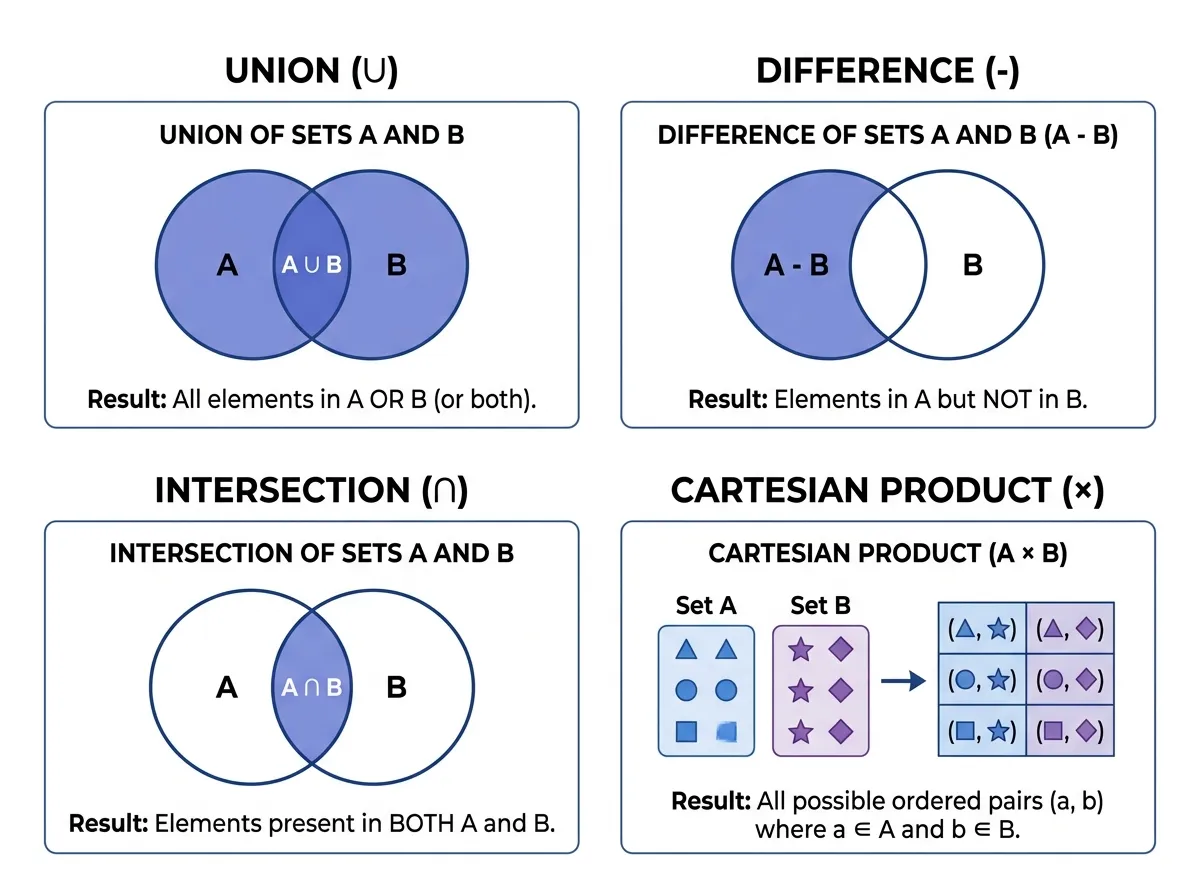
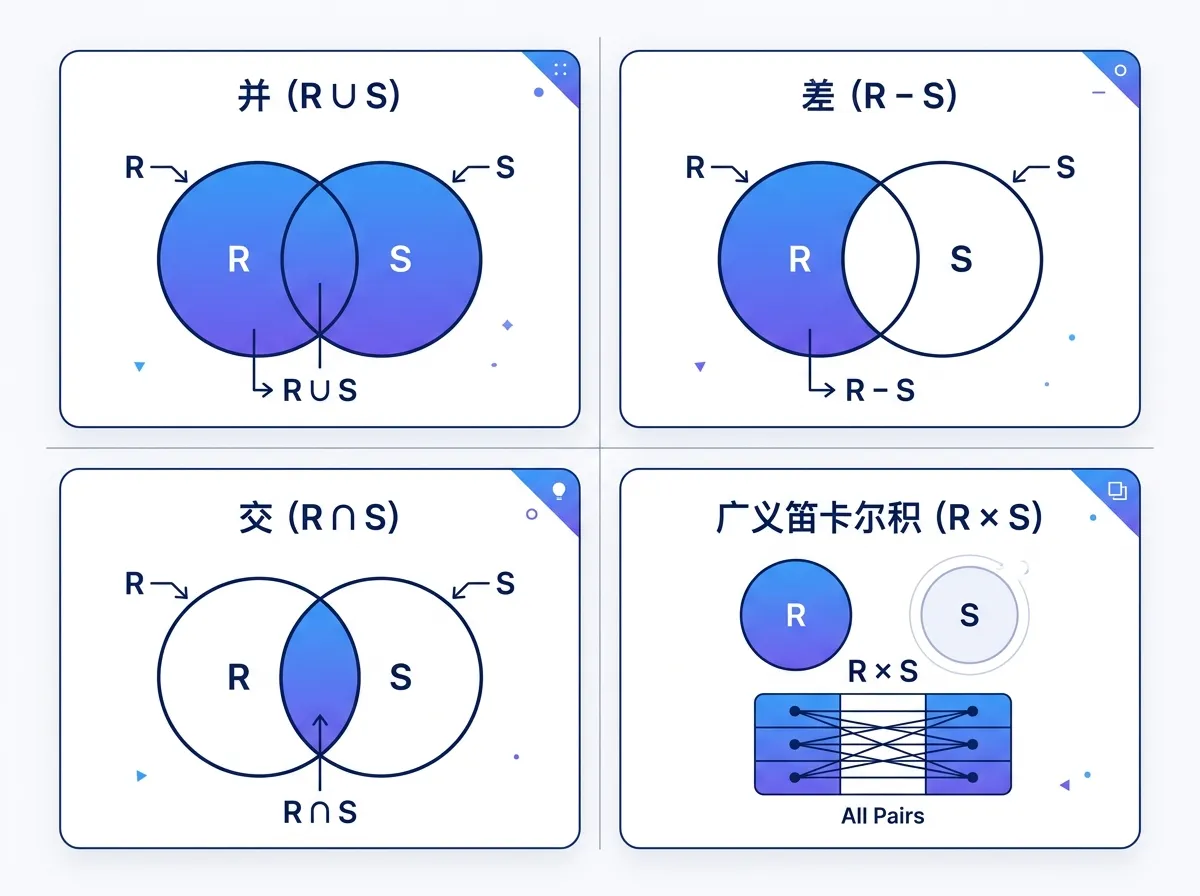
chore(posts): adjust content

Changed region(s): [[0.0308, 0.0312, 0.9558, 0.9688], [0.8325, 0.25, 0.8942, 0.375]]

diff --git a/posts/study/economics-management/DP-A/7/index.md b/posts/study/economics-management/DP-A/7/index.md
@@ -133,48 +133,4 @@ BEGIN
   CLOSE cur_prod;
 END $$
 DELIMITER ;
-```\n
-
-## 7.5 教材纠错：存储过程与触发器中的逻辑与语法硬伤
-
-:::warning[教材纠错 1：中位数计算逻辑丢失分母]
-在原书实例 7-6 的中位数计算中，偶数个数时的中位数求法为：
-```sql
-IF (MOD($n,2)=0) THEN
-  SELECT sum(Unitprice) into $m FROM ...
 ```
-**纠错解析**：当总商品数为偶数时，中位数定义应为中间两位单价的**平均值**（即 `SUM(Unitprice) / 2`）。原书代码直接求和，导致偶数情况下的中位数结果扩大了整整一倍。应更正为 `SELECT SUM(Unitprice) / 2 INTO $m`。
-:::
-
-:::warning[教材纠错 2：存储过程名称拼写不匹配]
-原书在同一实例段落中创建存储过程为 `sp7`（`CREATE PROCEDURE sp7...`），但随后的运行调用指令却错写成调用 `sp1`（`CALL sp1(...)`），会导致运行报错。应将调用更正为 `CALL sp7(...)`。
-:::
-
-:::warning[教材纠错 3：变量名未声明引用错误]
-在原书 `sp7` 的返回判定代码中写有：
-```sql
-IF ($Amount is null) then set $amt=0;
-```
-**纠错解析**：在过程参数定义中，对外输出变量明明声明为 `$amt`，此处却校验 `$Amount` 是否为空。由于 `$Amount` 属于未声明的未定义变量，此代码在 MySQL 中将编译失败。应更正为 `IF ($amt IS NULL) THEN SET $amt = 0; END IF;`。
-:::
-
-:::warning[教材纠错 4：触发器 Repeat 循环体中直接引用子查询（语法死症）]
-在原书触发器自动生成工号的 `REPEAT` 循环中写有：
-```sql
-REPEAT
-  ...
-UNTIL not exists(SELECT * FROM myEmployees where EmployeeID=$EmployeeID) 
-END REPEAT;
-```
-**纠错解析**：在 MySQL 过程体控制中，`UNTIL` 后只能计算标量布尔表达式，**严禁直接挂载 `NOT EXISTS` 等子查询**，否则直接报语法分析错误。
-**正确更正方案**：需额外声明一个标志变量，先查询再做判断：
-```sql title="correct_trigger_loop.sql"
-DECLARE $exists_flag INT DEFAULT 1;
-REPEAT
-  SELECT CONCAT($s1, RIGHT(1000 + RAND() * 999, 3), $s2) INTO $EmployeeID;
-  -- 先查询结果并写入布尔标志变量
-  SELECT COUNT(*) INTO $exists_flag FROM myEmployees WHERE EmployeeID = $EmployeeID;
-UNTIL $exists_flag = 0 
-END REPEAT;
-```
-:::

diff --git a/posts/study/economics-management/DP-A/6/index.md b/posts/study/economics-management/DP-A/6/index.md
@@ -70,18 +70,11 @@ WITH RECURSIVE tmp (id, name, path) AS (
   JOIN tmp AS b ON b.id = a.ReportsTo
 )
 SELECT * FROM tmp ORDER BY id;
-```\n
-
-:::warning[教材纠错：CTE 语句建表语法错误]
-原书中给出的公用表表达式建表实例代码中写有：
-```sql
-CREATE TABLE bbb WITH tmp AS (
-  SELECT a.*, b.companyname FROM orders a JOIN Customers b USING(CustomerID) ...
-) SELECT * FROM tmp;
 ```
+### 6.3.2 使用 CTE 创建表
 
-**纠错解析**：在 MySQL 8.0 中，`WITH` 子句是 `SELECT` 语句的一部分，不能夹在 `CREATE TABLE` 和其子查询的中间。此段代码在 MySQL 中运行时会抛出严重的 `Syntax Error`（语法错误）。
-**正确代码**：应该将 `WITH` 部分作为 `AS` 之后的子查询主导，如下：
+在 MySQL 中，如果需要将 CTE 查询的结果直接保存到新表中，需要将 `WITH` 部分作为 `AS` 之后的子查询主体：
+
 ```sql title="correct_cte_create_table.sql"
 CREATE TABLE bbb AS 
 WITH tmp AS (
@@ -93,4 +86,3 @@ WITH tmp AS (
 ) 
 SELECT * FROM tmp ORDER BY RAND();
 ```
-:::

diff --git a/posts/study/economics-management/DP-A/5/index.md b/posts/study/economics-management/DP-A/5/index.md
@@ -44,11 +44,4 @@ CREATE INDEX idx_product_price ON Products (UnitPrice);
 
 -- 删除索引
 DROP INDEX idx_product_price ON Products;
-```\n
-
-:::warning[教材纠错：DECIMAL 数据类型定义拷贝错误]
-原书中在介绍常用数据类型时，将 `Decimal(M, D)` 的特征描述写成了：“*D 是精度，如果 D<=24 则为默认的 FLOAT，如果 D>24 则会自动被转换为 DOUBLE 型。*”
-
-**纠错解析**：这是直接从 `Float(M, D)` 描述中复制粘贴遗留的排版硬伤。在 MySQL 中，`DECIMAL` 属于高精度的**定点数类型**，绝对不会在存储时退化或隐式转换为浮点数。其正确定义应当为：
-> `Decimal(M, D)`：固定精度和小数位的数字数据。M 是最大有效位数（精度，取值范围 $1 \sim 65$），D 是小数点右侧的位数（标度，取值范围 $0 \sim 30$）。常用在对数值精度要求极高（不允许浮点误差）的金融、财务报表等场景中。
-:::
+```

diff --git a/posts/study/economics-management/DP-A/2/index.md b/posts/study/economics-management/DP-A/2/index.md
@@ -48,7 +48,7 @@ category: "数据库原理与应用"
 *   **交 (Intersection, $\cap$)**：$R \cap S = \{ t \mid t \in R \land t \in S \}$，可以表示为 $R - (R - S)$
 *   **广义笛卡尔积 (Cartesian Product, $\times$)**：$R \times S$，结果的属性数为 $R$ 与 $S$ 属性数之和，元组数为两关系元组数之积。
 
-![传统集合运算 w-60%](./2-3.webp "传统集合运算")
+![传统集合运算 🤖 **Note:** 该图片由 AI 协助生成。 w-60% ](./2-3.webp "传统集合运算")
 
 ### 2.3.2 专门的关系运算
 
@@ -71,4 +71,4 @@ category: "数据库原理与应用"
     *   连接与笛卡尔积的交换律与结合律：$R \bowtie S \equiv S \bowtie R$；$(R \bowtie S) \bowtie T \equiv R \bowtie (S \bowtie T)$。
     *   选择的分配律：$\sigma_F(R \cup S) \equiv \sigma_F(R) \cup \sigma_F(S)$；$\sigma_F(R \bowtie S) \equiv \sigma_F(R) \bowtie S$（若条件 $F$ 只涉及关系 $R$ 的属性）。
 
-![等价变换查询优化树对比 w-60%](./2-4.webp "等价变换查询优化树对比")\n
+![等价变换查询优化树对比 🤖 **Note:** 该图片由 AI 生成。 w-60%](./2-4.webp "等价变换查询优化树对比")